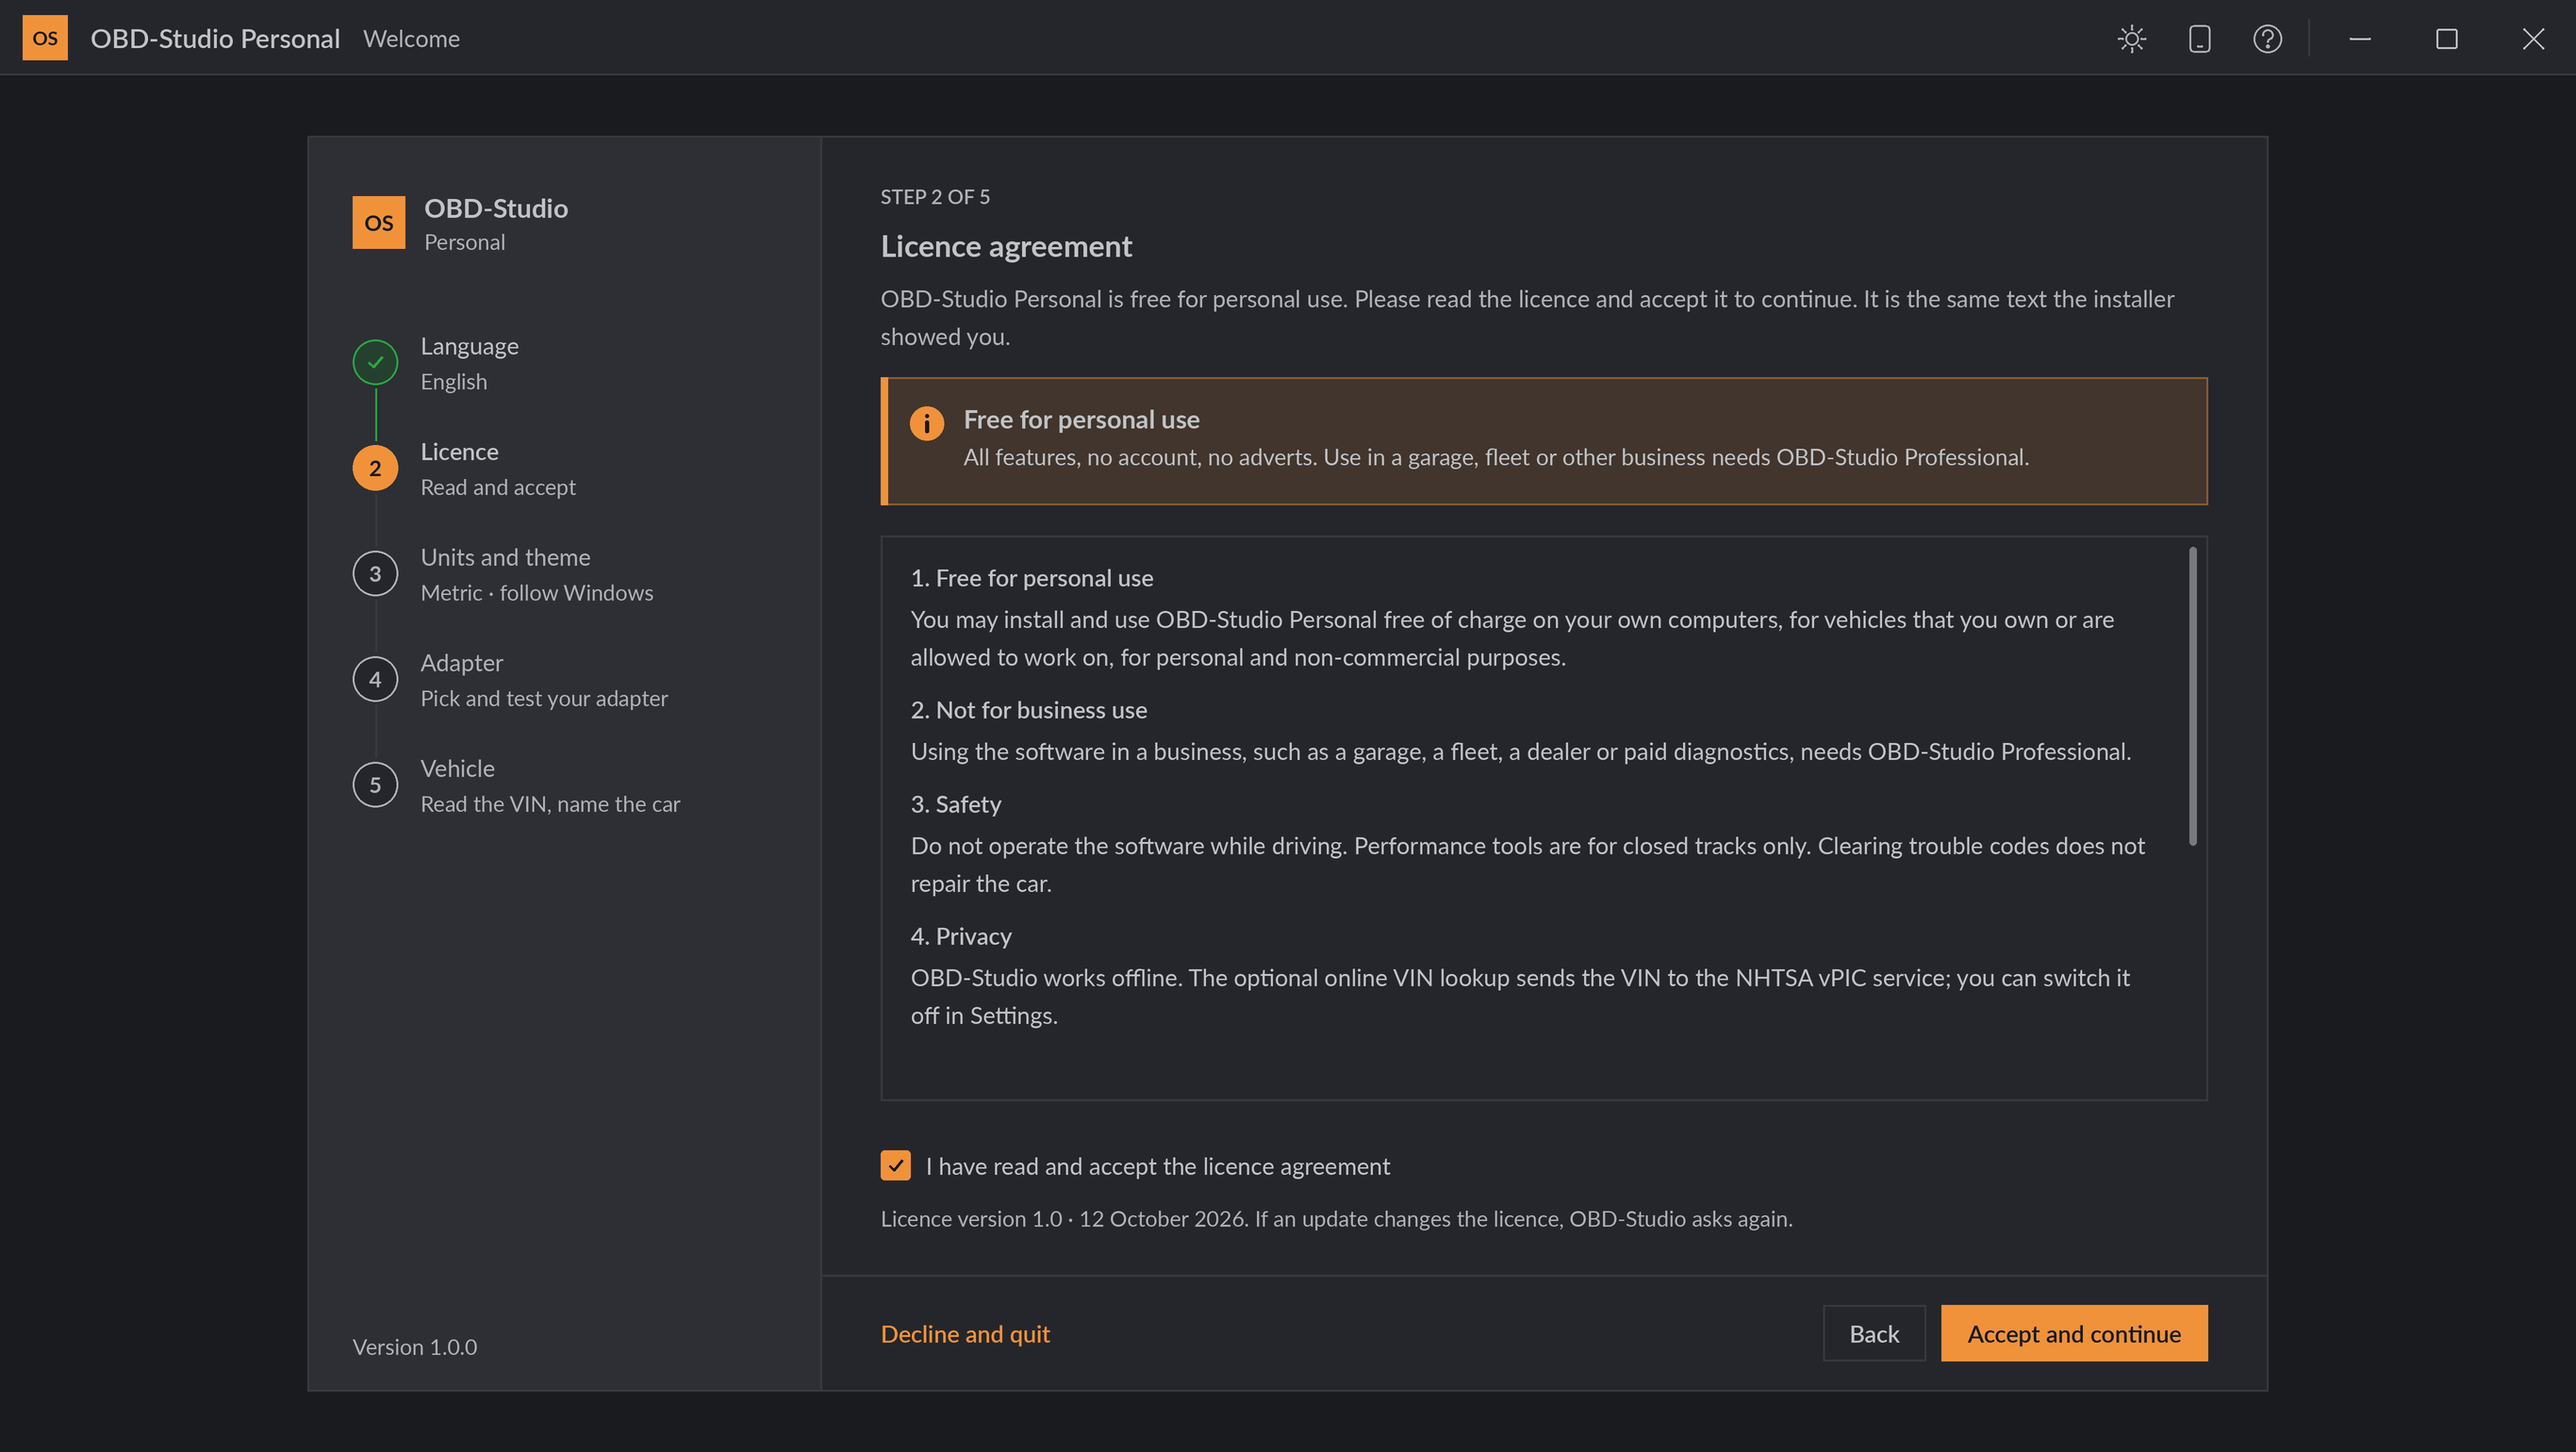
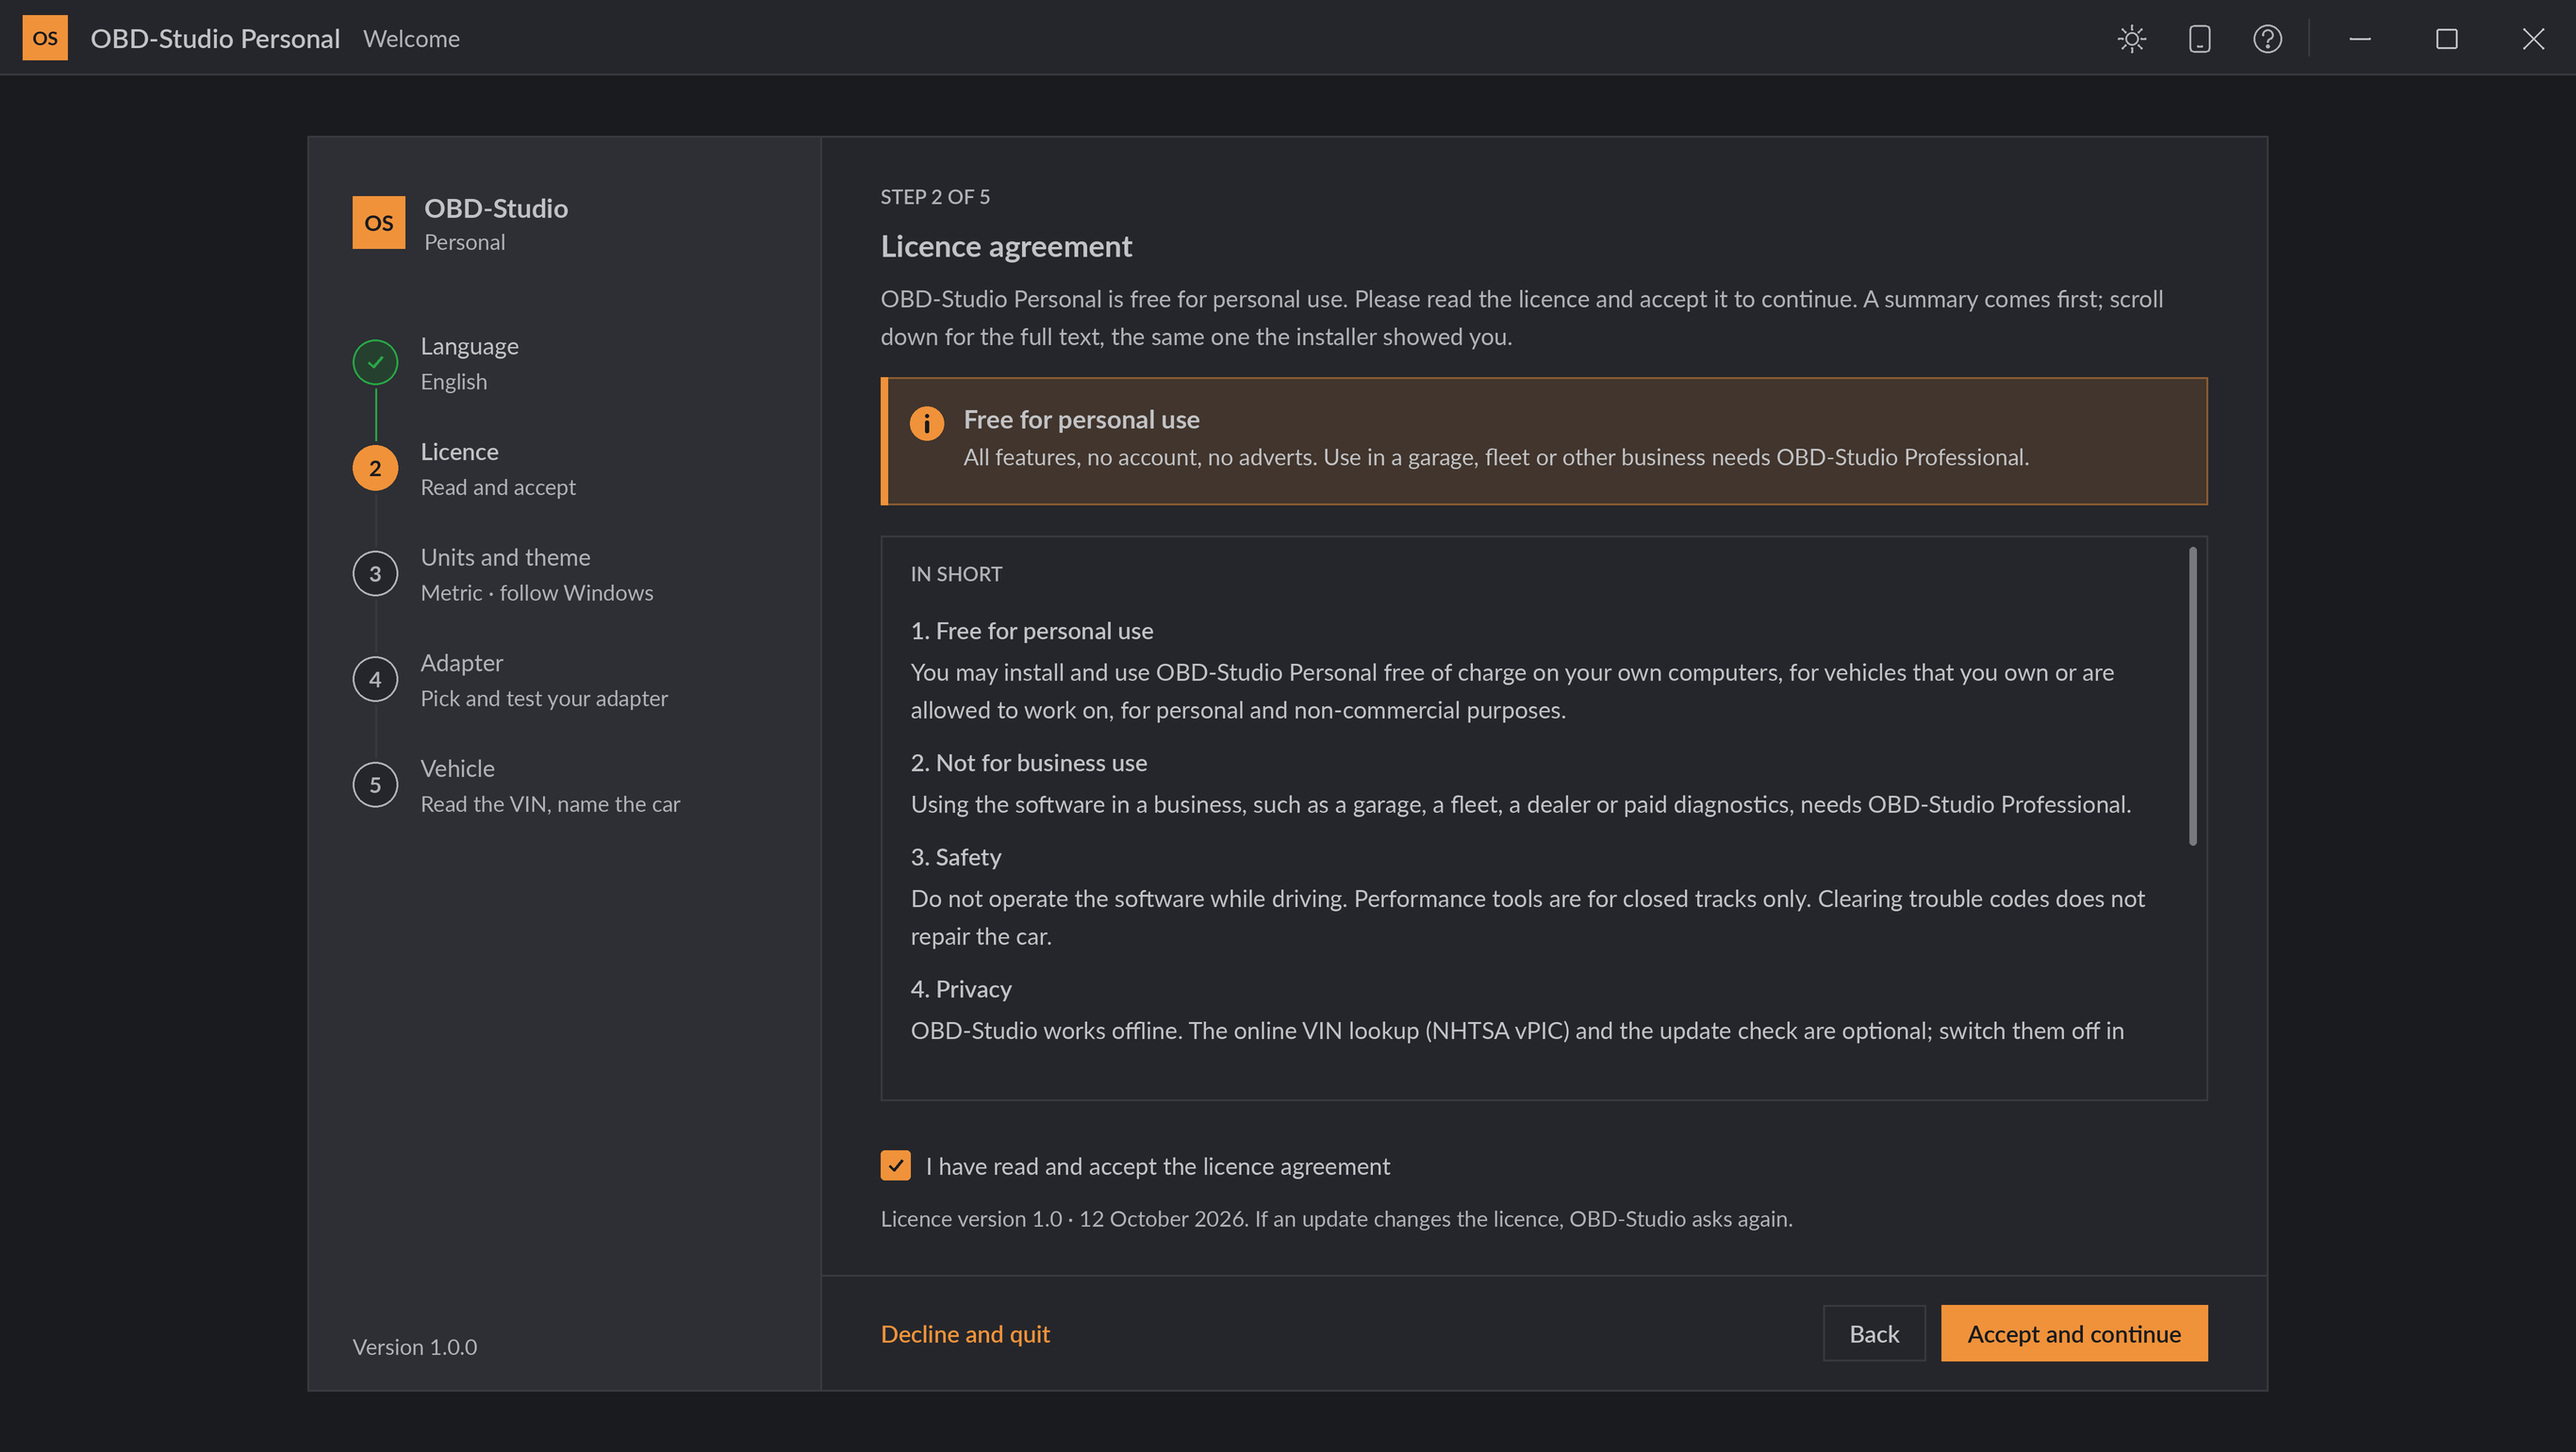
Welcome mockup: licence summary wording, update check in privacy clause

Changed region(s): [[0.3422, 0.374, 0.8089, 0.7169], [0.3422, 0.2182, 0.5911, 0.2494], [0.7156, 0.187, 0.84, 0.2182]]

diff --git a/tools/ui_mockups_personal.py b/tools/ui_mockups_personal.py
@@ -481,8 +481,8 @@ LICENCE_TEXT = [
      'Do not operate the software while driving. Performance tools are for '
      'closed tracks only. Clearing trouble codes does not repair the car.'),
     ('4. Privacy',
-     'OBD-Studio works offline. The optional online VIN lookup sends the '
-     'VIN to the NHTSA vPIC service; you can switch it off in Settings.'),
+     'OBD-Studio works offline. The online VIN lookup (NHTSA vPIC) and the '
+     'update check are optional; switch them off in Settings › Privacy.'),
     ('5. No warranty',
      'The software is provided as is, without warranty of any kind.'),
 ]
@@ -494,15 +494,17 @@ def wizard_body(c, bx, y, bw):
     c.caps(bx, y, 'Step 2 of 5')
     c.text(bx, y + 26, 'Licence agreement', 16, p.ForegroundText, 'bold')
     y = para(c, bx, y + 54, bw, 'OBD-Studio Personal is free for personal '
-             'use. Please read the licence and accept it to continue. It is '
-             'the same text the installer showed you.', 12.5, p.GaugeLabel)
+             'use. Please read the licence and accept it to continue. A '
+             'summary comes first; scroll down for the full text, the same '
+             'one the installer showed you.', 12.5, p.GaugeLabel)
     y = wbanner(c, bx, y + 2, bw, 'info', 'Free for personal use',
                 'All features, no account, no adverts. Use in a garage, '
                 'fleet or other business needs OBD-Studio Professional.')
     y += 16
     lh = 300 if c.density == 'desktop' else 340
     c.rect(bx, y, bw, lh, fill=p.GaugeFace, outline=p.NeutralLight)
-    ty = y + 22
+    c.caps(bx + 16, y + 20, 'In short')
+    ty = y + 50
     for title, text in LICENCE_TEXT:
         if ty > y + lh - 24:
             break

diff --git a/docs/mockups/README.md b/docs/mockups/README.md
@@ -680,7 +680,7 @@ a `-tablet` variant.
 
 | Mockup | Shows |
 |---|---|
-| `personal-welcome` | First-start wizard (language, licence, units and theme, adapter, vehicle) on the licence step, with the same licence text as the installer. |
+| `personal-welcome` | First-start wizard (language, licence, units and theme, adapter, vehicle) on the licence step: a short summary, then the full licence the installer showed. |
 | `personal-connect` | Connection and device (Bluetooth, Bluetooth LE, USB, Wi-Fi), the adapter check that tells a genuine adapter from a clone, and the demo car. |
 | `personal-overview` | MIL, codes, inspection readiness and battery at a glance; quick start and recent sessions. |
 | `personal-codes` | Codes per ECU with status chips, the freeze frame with normal ranges, possible causes, offline code lookup, CSV export and clear. |

diff --git a/applications/obd-studio-personal/README.md b/applications/obd-studio-personal/README.md
@@ -225,9 +225,9 @@ The licence is accepted twice:
 
 1. **Installer.** The installer shows [`EULA.md`](EULA.md) and does not
    continue until the user accepts it.
-2. **First start.** The first-start wizard shows the licence again
-   (`personal-welcome`) and stores the accepted version for the Windows
-   user. When a later update changes the licence version, the application
+2. **First start.** The first-start wizard shows a short summary followed
+   by the same full text (`personal-welcome`) and stores the accepted
+   version for the Windows user. When a later update changes the licence version, the application
    asks again.
 
 ## Roadmap

diff --git a/applications/obd-studio-personal/EULA.md b/applications/obd-studio-personal/EULA.md
@@ -3,8 +3,9 @@
 > **Draft for legal review. Not yet in force.** This text has not been
 > reviewed by a lawyer. Have it checked under Belgian and EU consumer law
 > before the first release. It must stay consistent with the repository
-> [`LICENSE`](../../LICENSE) and with the licence step of the first-start
-> wizard (`personal-welcome` mockup).
+> [`LICENSE`](../../LICENSE). The licence step of the first-start wizard
+> (`personal-welcome` mockup) shows a short summary followed by this full
+> text; keep the summary in line with it.
 
 Licence version 1.0 · 12 October 2026
 
